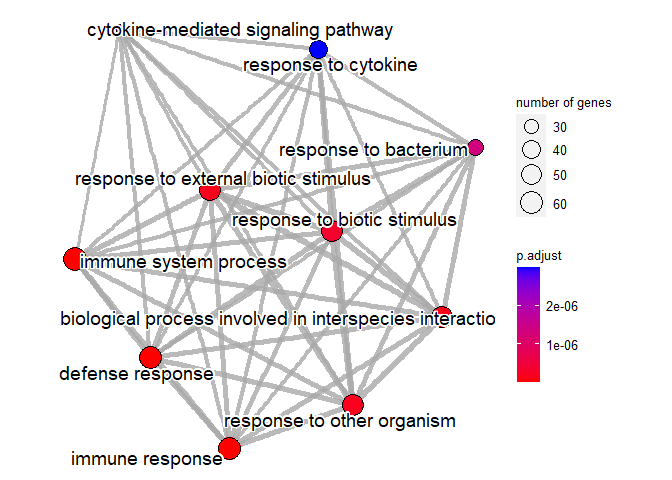
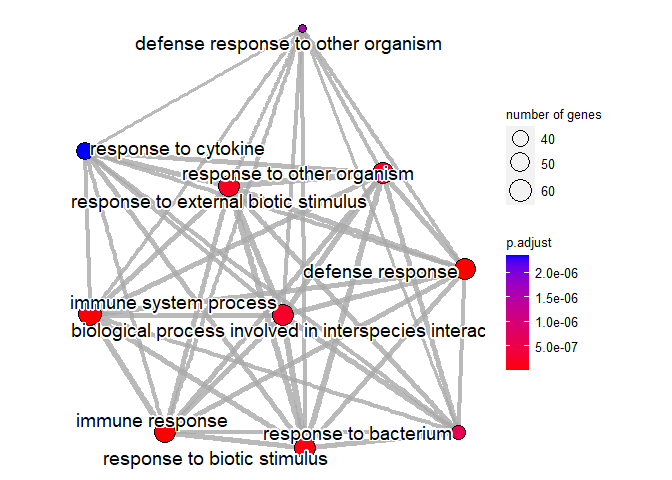
Adjusted font

Changed region(s): [[0.0938, 0.0312, 0.875, 0.9688], [0.75, 0.1875, 0.9062, 0.4375]]

diff --git a/GSEA/GSEA.md b/GSEA/GSEA.md
@@ -139,6 +139,9 @@ gse = gseGO(geneList=gene_list,
 
     ## GSEA analysis...
 
+    ## Warning in fgseaMultilevel(...): For some of the pathways the P-values were
+    ## likely overestimated. For such pathways log2err is set to NA.
+
     ## leading edge analysis...
 
     ## done...
@@ -149,17 +152,10 @@ gse = gseGO(geneList=gene_list,
 require(DOSE)
 ```
 
-    ## Loading required package: DOSE
-
     ## Warning: package 'DOSE' was built under R version 4.1.2
 
-    ## DOSE v3.20.1  For help: https://yulab-smu.top/biomedical-knowledge-mining-book/
-    ## 
-    ## If you use DOSE in published research, please cite:
-    ## Guangchuang Yu, Li-Gen Wang, Guang-Rong Yan, Qing-Yu He. DOSE: an R/Bioconductor package for Disease Ontology Semantic and Enrichment analysis. Bioinformatics 2015, 31(4):608-609
-
 ``` r
-dotplot(gse, showCategory=10, split=".sign") + facet_grid(.~.sign)
+dotplot(gse, showCategory=8, split=".sign", font.size = 8) + facet_grid(.~.sign)
 ```
 
 ![](GSEA_files/figure-gfm/unnamed-chunk-8-1.png)<!-- -->
@@ -184,9 +180,9 @@ emapplot(gse_p, showCategory = 10)
 ## Ridgeplot
 
 ``` r
-ridgeplot(gse) + labs(x = "enrichment distribution")
+ridgeplot(gse, showCategory=15) + labs(x = "enrichment distribution")  + theme(axis.text.y = element_text(size = 8))
 ```
 
-    ## Picking joint bandwidth of 0.301
+    ## Picking joint bandwidth of 0.272
 
 ![](GSEA_files/figure-gfm/unnamed-chunk-11-1.png)<!-- -->
